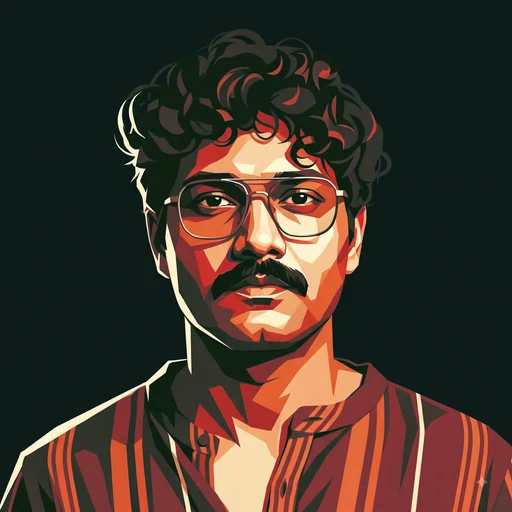
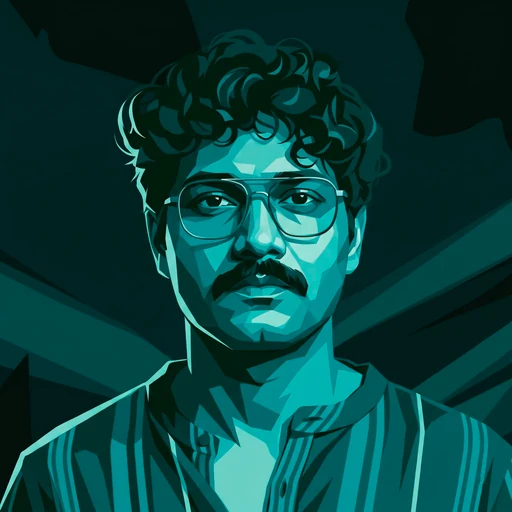
Apply the Claude-authored portrait update
Snapshot supplied by Vishnu: retuned face-box and landmark coordinates for the
new portrait, CSS positioning to match, and tools/recolor.py rewritten to rotate
hue in OKLCH rather than HSL so lightness and chroma survive the theme change.

Regenerated assets included: portrait + avatar per accent, master, OG card.

diff --git a/index.html b/index.html
@@ -206,17 +206,17 @@
         </div>
         <svg class="landmarks" viewBox="0 0 100 100" preserveAspectRatio="none" aria-hidden="true">
           <g class="lm-lines">
-            <path d="M40 35 L48 42.5 L55.5 35"/>
-            <path d="M40 50 L48 49.5 L57 50"/>
-            <path d="M30 44 L40 35 M66 44 L55.5 35"/>
-            <path d="M30 44 L35 56 L48 61 L62 56 L66 44"/>
+            <path d="M42 38.8 L51.5 47.5 L58.5 38.5"/>
+            <path d="M45.5 59 L50.5 59.5 L55.5 59"/>
+            <path d="M33 46 L42 38.8 M69 46 L58.5 38.5"/>
+            <path d="M33 46 L36.5 60 L50.5 67 L65.5 59 L69 46"/>
           </g>
           <g class="lm-pts">
-            <circle cx="40" cy="35" r=".9"/><circle cx="55.5" cy="35" r=".9"/>
-            <circle cx="48" cy="42.5" r=".9"/><circle cx="40" cy="50" r=".9"/>
-            <circle cx="57" cy="50" r=".9"/><circle cx="48" cy="49.5" r=".9"/>
-            <circle cx="30" cy="44" r=".7"/><circle cx="66" cy="44" r=".7"/>
-            <circle cx="35" cy="56" r=".7"/><circle cx="62" cy="56" r=".7"/><circle cx="48" cy="61" r=".9"/>
+            <circle cx="42" cy="38.8" r=".9"/><circle cx="58.5" cy="38.5" r=".9"/>
+            <circle cx="51.5" cy="47.5" r=".9"/><circle cx="45.5" cy="59" r=".9"/>
+            <circle cx="55.5" cy="59" r=".9"/><circle cx="50.5" cy="59.5" r=".9"/>
+            <circle cx="33" cy="46" r=".7"/><circle cx="69" cy="46" r=".7"/>
+            <circle cx="36.5" cy="60" r=".7"/><circle cx="65.5" cy="59" r=".7"/><circle cx="50.5" cy="67" r=".9"/>
           </g>
         </svg>
         <div class="hud hud-top mono" aria-hidden="true"><span>CAM_01</span><span class="rec"><i></i>LIVE</span></div>

diff --git a/assets/css/style.css b/assets/css/style.css
@@ -343,8 +343,8 @@ img,canvas,svg{display:block;}
 }
 .scan-img{
   position:absolute; inset:0; background:center/cover no-repeat url('../img/portrait-green.webp');
-  /* the screen-print treatment is baked into the image, so the old grayscale
-     filter is gone — applying it here would strip the themed colour back out */
+  /* one pre-coloured image per accent (tools/recolor.py); no CSS filter, it
+     would strip the themed colour back out */
   filter:none;
   transition:filter 1.2s var(--ease-out), transform 1.2s var(--ease-out);
   transform:scale(1.04);
@@ -375,7 +375,7 @@ img,canvas,svg{display:block;}
 @keyframes scan{0%{opacity:0; transform:translateY(-100%);} 10%{opacity:1;} 90%{opacity:1;} 100%{opacity:0; transform:translateY(340%);}}
 
 .face-box{
-  position:absolute; left:28%; top:24%; width:41%; height:40%; color:var(--accent);
+  position:absolute; left:30%; top:26%; width:42%; height:44%; color:var(--accent);
   opacity:0; transform:scale(1.35); transition:opacity .5s, transform .9s var(--ease-out);
 }
 .face-box .c{width:16px; height:16px;}

diff --git a/tools/recolor.py b/tools/recolor.py
@@ -1,10 +1,15 @@
-"""Recolour the generated portrait across the site's accent hues.
+"""Recolour the hero portrait for every accent theme on the site.
 
-The master is a crimson relief: one key light, four or five tonal planes, cream
-highlights. Rather than re-generating per accent (eight paid calls), rotate hue in
-HSL space — that preserves the plane structure exactly — and pull saturation out
-of the top of the range so highlights stay near-cream instead of going green or
-blue, which is what a naive hue-rotate does.
+The master (assets/img/gen/master.png) is a single-hue relief illustration: flat
+planes of one colour from near-black to pale highlights. To theme it, each pixel's
+hue is rotated in OKLCH space while its lightness and chroma are kept. OKLCH is
+perceptual, so a green or teal version looks exactly as light and as contrasty as
+the red original — an HSL rotation would turn the same mid-tones into neon.
+
+Run from the repo root:  python3 tools/recolor.py
+Outputs: assets/img/portrait-<accent>.webp (1024px hero), avatar/avatar-<accent>.webp
+(512px nav avatar), portrait.webp (untouched master), profile-picture.png and
+og-image.jpg (default green theme), and a contact sheet in gen/_sheet.png.
 """
 from __future__ import annotations
 
@@ -12,107 +17,117 @@ import colorsys
 import os
 
 import numpy as np
-from PIL import Image
+from PIL import Image, ImageDraw
 
 ROOT = os.path.dirname(os.path.dirname(os.path.abspath(__file__)))
 SRC = os.path.join(ROOT, "assets", "img", "gen", "master.png")
 IMG = os.path.join(ROOT, "assets", "img")
 AV = os.path.join(IMG, "avatar")
 
-THEMES = {"green": 145, "teal": 178, "blue": 214, "violet": 268,
-          "red": 2, "amber": 38, "orange": 14}
-SRC_HUE = 12.0          # the master's dominant hue
+# must match the swatches in index.html and --accent-h in style.css
+THEMES = {"orange": 14, "red": 2, "amber": 38, "green": 145,
+          "teal": 178, "blue": 214, "violet": 268}
+DEFAULT = "green"
 
 
-def rotate(rgb: np.ndarray, to_hue: float, sat_scale: float = 1.0) -> np.ndarray:
-    mx = rgb.max(axis=2)
-    mn = rgb.min(axis=2)
-    l = (mx + mn) / 2.0
-    d = mx - mn
-    s = np.where(d == 0, 0, d / (1 - np.abs(2 * l - 1) + 1e-6))
-
-    # hue of each pixel
-    r, g, b = rgb[..., 0], rgb[..., 1], rgb[..., 2]
-    h = np.zeros_like(mx)
-    m = d > 1e-6
-    idx = m & (mx == r); h[idx] = ((g[idx] - b[idx]) / d[idx]) % 6
-    idx = m & (mx == g) & (mx != r); h[idx] = (b[idx] - r[idx]) / d[idx] + 2
-    idx = m & (mx == b) & (mx != r) & (mx != g); h[idx] = (r[idx] - g[idx]) / d[idx] + 4
-    h *= 60.0
-
-    h = (h - SRC_HUE + to_hue) % 360.0
-    # highlights stay neutral: saturation falls away at the top of the range
-    top = np.clip((l - 0.72) / 0.28, 0, 1) ** 1.5
-    s = s * sat_scale * (1 - 0.8 * top)
-
-    # back to rgb
-    def f(n):
-        k = (n + h / 30.0) % 12
-        a = s * np.minimum(l, 1 - l)
-        return l - a * np.maximum(-1, np.minimum(np.minimum(k - 3, 9 - k), 1))
-    out = np.stack([f(0), f(8), f(4)], axis=2)
-    return np.clip(out, 0, 1)
+# ---- sRGB <-> OKLab -------------------------------------------------------
+def _to_lin(c):
+    return np.where(c <= 0.04045, c / 12.92, ((c + 0.055) / 1.055) ** 2.4)
 
 
-def lit(rgb: np.ndarray, to_hue: float) -> np.ndarray:
-    """Accent as lighting rather than as pigment.
+def _to_srgb(c):
+    c = np.clip(c, 0, 1)
+    return np.where(c <= 0.0031308, c * 12.92, 1.055 * c ** (1 / 2.4) - 0.055)
 
-    Full hue rotation turns a face green on a cool accent, which reads as a bug.
-    Real cinematography tints the *environment* and the shadows: skin stays warm,
-    the ground and the shadow mass take the accent. So rotate hue only where the
-    image is dark, and leave mid-tones and highlights alone.
-    """
-    mx = rgb.max(axis=2); mn = rgb.min(axis=2)
-    l = (mx + mn) / 2.0
-    # weight: 1 in deep shadow, 0 through mid-tones and highlights
-    w = np.clip((0.46 - l) / 0.46, 0, 1) ** 1.15
-    bold = rotate(rgb, to_hue)
-    out = rgb * (1 - w[..., None]) + bold * w[..., None]
-    # the ground is near-black and carries no hue of its own: tint it directly
-    ground = np.clip((0.10 - l) / 0.10, 0, 1)[..., None]
-    tint = np.array(colorsys.hls_to_rgb((to_hue % 360) / 360.0, 0.10, 0.45), np.float32)
-    return np.clip(out * (1 - ground) + tint * ground, 0, 1)
+
+def rgb_to_oklab(rgb):
+    r, g, b = np.moveaxis(_to_lin(rgb), -1, 0)
+    l = np.cbrt(0.4122214708 * r + 0.5363325363 * g + 0.0514459929 * b)
+    m = np.cbrt(0.2119034982 * r + 0.6806995451 * g + 0.1073969566 * b)
+    s = np.cbrt(0.0883024619 * r + 0.2817188376 * g + 0.6299787005 * b)
+    return np.stack([0.2104542553 * l + 0.7936177850 * m - 0.0040720468 * s,
+                     1.9779984951 * l - 2.4285922050 * m + 0.4505937099 * s,
+                     0.0259040371 * l + 0.7827717662 * m - 0.8086757660 * s], -1)
+
+
+def oklab_to_lin(lab):
+    L, a, b = np.moveaxis(lab, -1, 0)
+    l = (L + 0.3963377774 * a + 0.2158037573 * b) ** 3
+    m = (L - 0.1055613458 * a - 0.0638541728 * b) ** 3
+    s = (L - 0.0894841775 * a - 1.2914855480 * b) ** 3
+    return np.stack([4.0767416621 * l - 3.3077115913 * m + 0.2309699292 * s,
+                     -1.2684380046 * l + 2.6097574011 * m - 0.3413193965 * s,
+                     -0.0041960863 * l - 0.7034186147 * m + 1.7076147010 * s], -1)
+
+
+def oklch_hue_of_hsl(h):
+    rgb = np.array(colorsys.hls_to_rgb(h / 360, 0.56, 0.92), np.float64)
+    _, a, b = rgb_to_oklab(rgb[None, None])[0, 0]
+    return np.arctan2(b, a)
+
+
+def source_hue(lab):
+    """Chroma-weighted mean hue of the master."""
+    a, b = lab[..., 1], lab[..., 2]
+    c = np.hypot(a, b)
+    return np.arctan2((np.sin(np.arctan2(b, a)) * c).sum(), (np.cos(np.arctan2(b, a)) * c).sum())
+
+
+def recolor(lab, dh):
+    L, a, b = np.moveaxis(lab, -1, 0)
+    C, h = np.hypot(a, b), np.arctan2(b, a) + dh
+    # keep L and hue, shrink chroma only as far as needed to stay inside sRGB
+    lo, hi = np.zeros_like(C), np.ones_like(C)
+    ok = lambda k: np.all((oklab_to_lin(np.stack([L, C * k * np.cos(h), C * k * np.sin(h)], -1)) >= -1e-4)
+                          & (oklab_to_lin(np.stack([L, C * k * np.cos(h), C * k * np.sin(h)], -1)) <= 1 + 1e-4), -1)
+    full = ok(hi)
+    for _ in range(10):
+        mid = (lo + hi) / 2
+        good = ok(mid)
+        lo, hi = np.where(good, mid, lo), np.where(good, hi, mid)
+    k = np.where(full, 1.0, lo)
+    out = np.stack([L, C * k * np.cos(h), C * k * np.sin(h)], -1)
+    return _to_srgb(oklab_to_lin(out))
+
+
+def save(arr, path, size, **kw):
+    Image.fromarray((np.clip(arr, 0, 1) * 255 + 0.5).astype(np.uint8)).resize(
+        (size, size) if isinstance(size, int) else size, Image.LANCZOS).save(path, **kw)
 
 
 def main():
-    im = Image.open(SRC).convert("RGB")
-    rgb = np.asarray(im, dtype=np.float32) / 255.0
+    src = Image.open(SRC).convert("RGB")
+    rgb = np.asarray(src, np.float64) / 255.0
+    lab = rgb_to_oklab(rgb)
+    h0 = source_hue(lab)
     os.makedirs(AV, exist_ok=True)
+
+    save(rgb, os.path.join(IMG, "portrait.webp"), 1024, quality=86, method=6)
     for name, hue in THEMES.items():
-        bold = Image.fromarray((rotate(rgb, hue) * 255).astype(np.uint8))
-        bold.resize((1024, 1024), Image.LANCZOS).save(
-            os.path.join(IMG, f"portrait-{name}-bold.webp"), quality=86, method=6)
-        out = lit(rgb, hue)
-        img = Image.fromarray((out * 255).astype(np.uint8))
-        img.resize((1024, 1024), Image.LANCZOS).save(
-            os.path.join(IMG, f"portrait-{name}.webp"), quality=86, method=6)
-        img.resize((512, 512), Image.LANCZOS).save(
-            os.path.join(AV, f"avatar-{name}.webp"), quality=88, method=6)
-        if name == "green":
-            img.save(os.path.join(IMG, "profile-picture.png"), optimize=True)
-            img.resize((1200, 630), Image.LANCZOS).save(
-                os.path.join(IMG, "og-image.jpg"), quality=88, optimize=True)
-        print(f"portrait-{name}.webp  {os.path.getsize(os.path.join(IMG, f'portrait-{name}.webp'))//1024}KB")
+        out = recolor(lab, oklch_hue_of_hsl(hue) - h0)
+        save(out, os.path.join(IMG, f"portrait-{name}.webp"), 1024, quality=86, method=6)
+        save(out, os.path.join(AV, f"avatar-{name}.webp"), 512, quality=88, method=6)
+        if name == DEFAULT:
+            save(out, os.path.join(IMG, "profile-picture.png"), 1024, optimize=True)
+            # og card: portrait centred on the darkest tone of the theme
+            og = Image.new("RGB", (1200, 630), tuple(int(v * 255) for v in out[8, 8]))
+            face = Image.fromarray((out * 255 + 0.5).astype(np.uint8)).resize((630, 630), Image.LANCZOS)
+            og.paste(face, (285, 0))
+            og.save(os.path.join(IMG, "og-image.jpg"), quality=88, optimize=True)
+        print(f"portrait-{name}.webp  {os.path.getsize(os.path.join(IMG, f'portrait-{name}.webp')) // 1024}KB")
 
-    # neutral: desaturated, for places with no accent context
-    out = rotate(rgb, SRC_HUE, sat_scale=0.18)
-    img = Image.fromarray((out * 255).astype(np.uint8))
-    img.resize((1024, 1024), Image.LANCZOS).save(os.path.join(IMG, "portrait-neutral.webp"), quality=86, method=6)
-    img.resize((512, 512), Image.LANCZOS).save(os.path.join(AV, "avatar-neutral.webp"), quality=88, method=6)
-
-    # contact sheet
-    tiles = [os.path.join(IMG, f"portrait-{n}.webp") for n in ["neutral", *THEMES]]
+    names = ["source", *THEMES]
     tw, pad, cols = 240, 12, 4
-    rows = (len(tiles) + cols - 1) // cols
-    sheet = Image.new("RGB", (cols * tw + pad * (cols + 1), rows * (tw + 20) + pad * (rows + 1)), (10, 12, 10))
-    from PIL import ImageDraw
+    rows = (len(names) + cols - 1) // cols
+    sheet = Image.new("RGB", (cols * tw + pad * (cols + 1), rows * (tw + 20) + pad * (rows + 1)), (10, 10, 10))
     dr = ImageDraw.Draw(sheet)
-    for i, p in enumerate(tiles):
+    for i, n in enumerate(names):
+        p = os.path.join(IMG, "portrait.webp" if n == "source" else f"portrait-{n}.webp")
         c, r = i % cols, i // cols
         x, y = pad + c * (tw + pad), pad + r * (tw + 20 + pad)
         with Image.open(p) as t:
             sheet.paste(t.convert("RGB").resize((tw, tw), Image.LANCZOS), (x, y))
-        dr.text((x + 2, y + tw + 3), os.path.basename(p).replace("portrait-", "").replace(".webp", ""), fill=(150, 200, 165))
+        dr.text((x + 2, y + tw + 3), n, fill=(200, 200, 200))
     sheet.save(os.path.join(IMG, "gen", "_sheet.png"))
     print("sheet:", os.path.join(IMG, "gen", "_sheet.png"))
 
